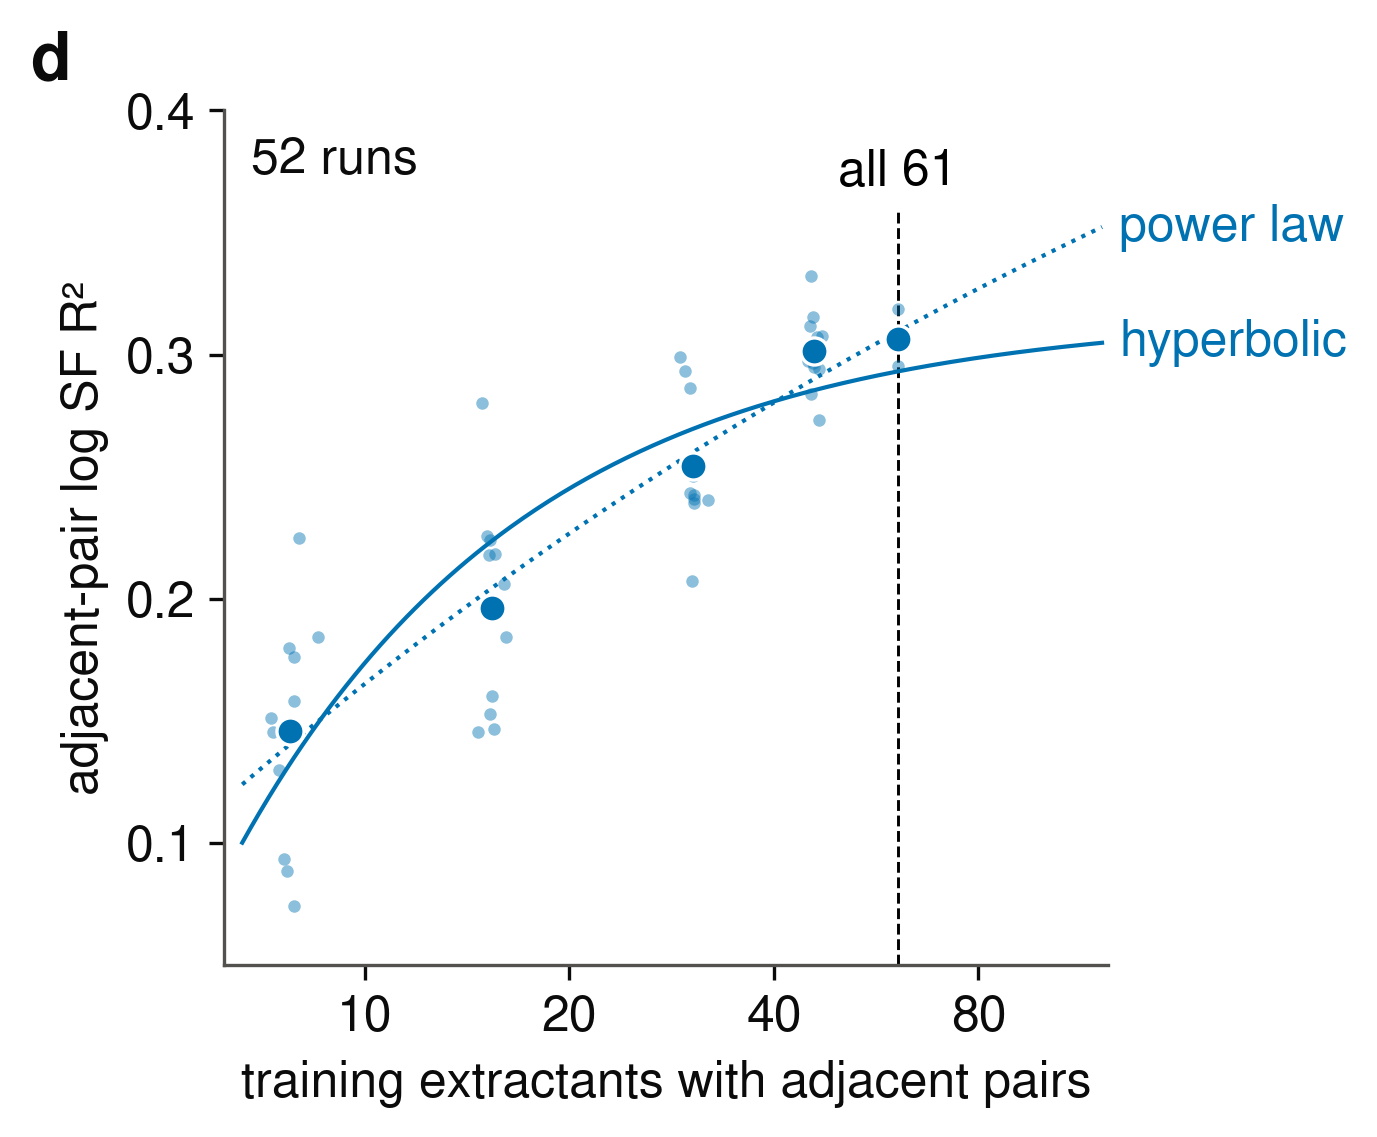
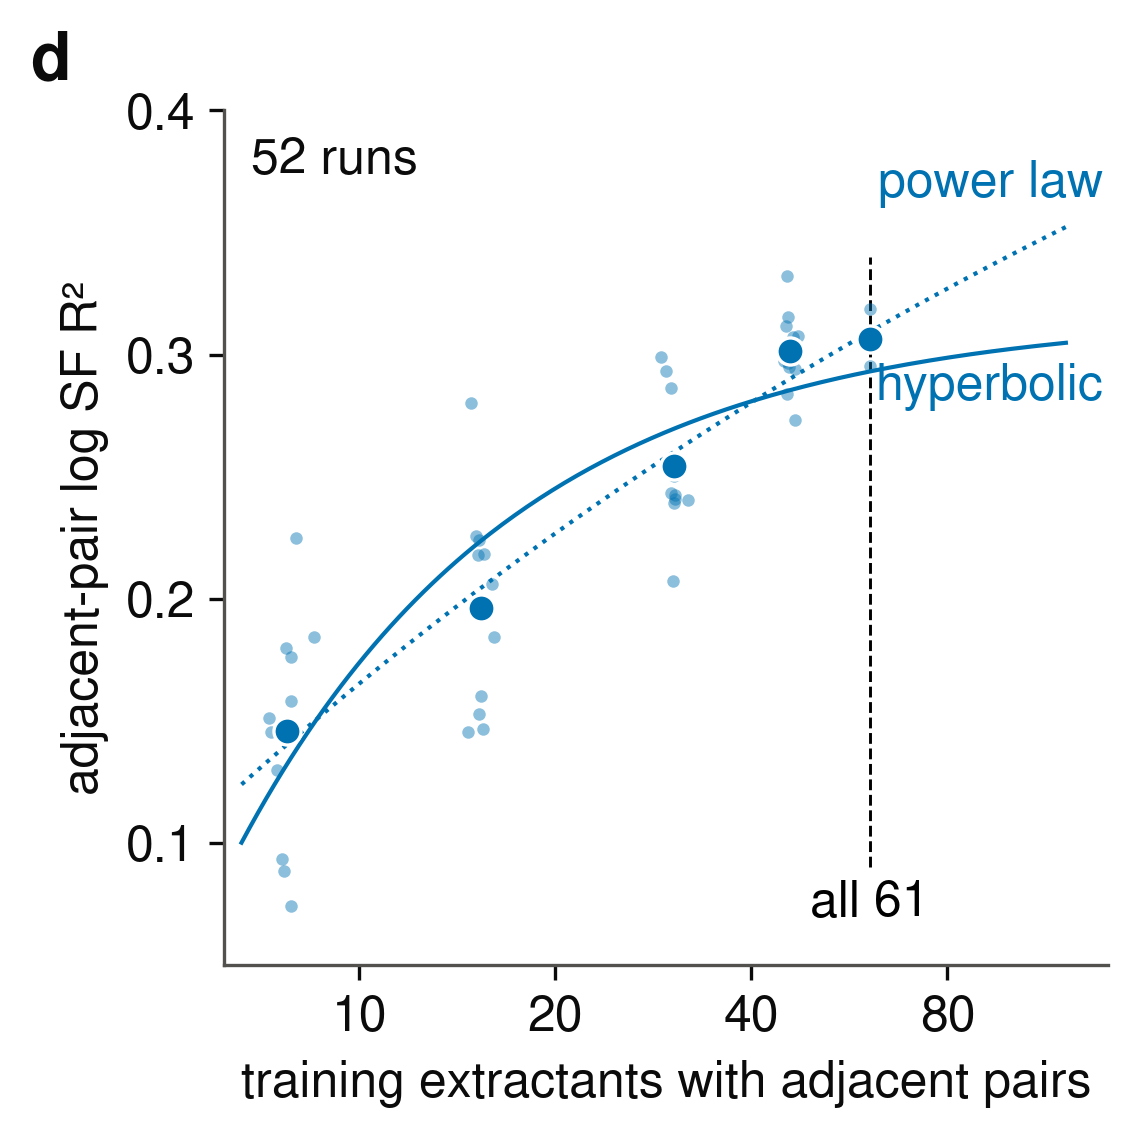
MoML figure, learning-curve panel: fit names inside the axes above and below their lines, full-data line labelled at its bottom end, axis extended so nothing touches

diff --git a/docs/moml_2026/make_figures.py b/docs/moml_2026/make_figures.py
@@ -191,13 +191,15 @@ def fig3(ch=None):
     y_p = pw["R_inf"] - pw["k"] * xx ** (-pw["c"])
     ax.plot(xx, y_h, color=col, lw=1.0, ls="-", zorder=3)
     ax.plot(xx, y_p, color=col, lw=1.0, ls=":", zorder=3)
-    # fit names just outside the right edge of the axes, on their lines' level
-    ax.text(xx[-1] * 1.06, y_h[-1], "hyperbolic", va="center", ha="left", color=col, clip_on=False)
-    ax.text(xx[-1] * 1.06, y_p[-1], "power law", va="center", ha="left", color=col, clip_on=False)
+    # fit names inside the axes at the right end: above the rising dotted line,
+    # below the flattening solid line
+    xr = 2.0 * n_full * 1.14                       # right edge, clear of the full-data line
+    ax.text(xr, y_p[-1] + 0.008, "power law", va="bottom", ha="right", color=col)
+    ax.text(xr, y_h[-1] - 0.008, "hyperbolic", va="top", ha="right", color=col)
     # full-data line stops below its label so the two never touch
-    ax.vlines(n_full, 0.05, 0.36, ls="--", lw=0.7, color=fs.OI["black"], zorder=1)
-    ax.text(n_full, 0.365, f"all {n_full:.0f}", ha="center", va="bottom", color=fs.OI["black"])
-    ax.set_xscale("log"); ax.set_xlim(pts.n.min() * 0.8, 2.0 * n_full * 1.02)
+    ax.vlines(n_full, 0.09, 0.34, ls="--", lw=0.7, color=fs.OI["black"], zorder=1)
+    ax.text(n_full, 0.085, f"all {n_full:.0f}", ha="center", va="top", color=fs.OI["black"])
+    ax.set_xscale("log"); ax.set_xlim(pts.n.min() * 0.8, 2.0 * n_full * 1.16)
     ax.set_xticks([10, 20, 40, 80]); ax.set_xticklabels(["10", "20", "40", "80"]); ax.minorticks_off()
     ax.set_ylim(0.05, 0.40); ax.set_yticks([0.1, 0.2, 0.3, 0.4])
     ax.set_xlabel("training extractants with adjacent pairs")
